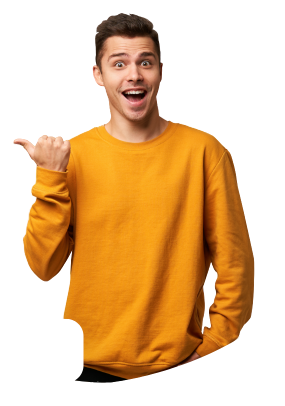
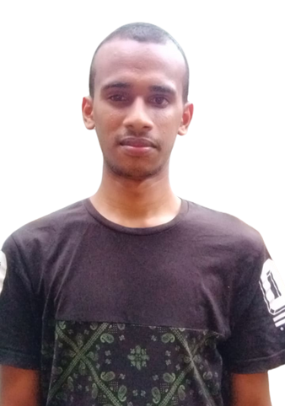
image added

diff --git a/src/components/Services/Services.jsx b/src/components/Services/Services.jsx
@@ -25,11 +25,13 @@ const Services = () => {
       <div className="awesome">
         {/* dark mode */}
         <span style={{ color: darkMode ? "white" : "" }}>My Awesome</span>
-        <span>services</span>
+        <span>Services</span>
         <spane>
-          Lorem ispum is simpley dummy text of printing of printing Lorem
-          <br />
-          ispum is simpley dummy text of printing
+        Web developer, with extensive knowledge <br />
+        And years of experience, working in web <br />
+        Technologies and Ui/Ux design, delivering <br />
+        Quality work. 
+
         </spane>
         <a href={Resume} download>
           <button className="button s-button">Download CV</button>
@@ -37,7 +39,7 @@ const Services = () => {
         <div className="blur s-blur1" style={{ background: "#ABF1FF94" }}></div>
       </div>
       {/* right */}
-      <div className="cards">
+      <div className="cards right-side">
         {/* first card */}
         <motion.div
           initial={{ left: "25rem" }}
@@ -72,7 +74,7 @@ const Services = () => {
             emoji={Humble}
             heading={"UI/UX"}
             detail={
-              "Lorem ispum dummy text are usually use in section where we need some random text"
+              "Website adaptable to all device, with Iui components and animated nteraction."
             }
             color="rgba(252, 166, 31, 0.45)"
           />

diff --git a/src/components/Experience/Experience.jsx b/src/components/Experience/Experience.jsx
@@ -9,17 +9,17 @@ const Experience = () => {
     <div className="experience" id='experience'>
       <div className="achievement">
         {/* darkMode */}
-        <div className="circle" style={{color: darkMode?'var(--orange)':''}}>8+</div>
+        <div className="circle" style={{color: darkMode?'var(--orange)':''}}>1+</div>
         <span  style={{color: darkMode?'white':''}}>years </span>
         <span>Experience</span>
       </div>
       <div className="achievement">
-        <div className="circle" style={{color: darkMode?'var(--orange)':''}}>20+</div>
+        <div className="circle" style={{color: darkMode?'var(--orange)':''}}>12+</div>
         <span  style={{color: darkMode?'white':''}}>completed </span>
         <span>Projects</span>
       </div>
       <div className="achievement">
-        <div className="circle" style={{color: darkMode?'var(--orange)':''}}>5+</div>
+        <div className="circle" style={{color: darkMode?'var(--orange)':''}}>1+</div>
         <span  style={{color: darkMode?'white':''}}>companies </span>
         <span>Work</span>
       </div>

diff --git a/src/components/Footer/Footer.jsx b/src/components/Footer/Footer.jsx
@@ -12,9 +12,9 @@ const Footer = () => {
       <div className="f-content">
         <span>pobarul.islam10@gmail.com</span>
         <div className="f-icons">
-          <Insta color="white" size={"3rem"} />
-          <Facebook color="white" size={"3rem"} />
-          <Gitub color="white" size={"3rem"} />
+        <a href="#"><Insta color="white" size={"3rem"} /></a>
+          <a href=""><Facebook color="white" size={"3rem"} /></a>
+         <a href=""> <Gitub color="white" size={"3rem"} /></a>
         </div>
       </div>
     </div>

diff --git a/src/components/Toggle/Toggle.jsx b/src/components/Toggle/Toggle.jsx
@@ -15,8 +15,7 @@ const Toggle = () => {
     <div className="toggle" onClick={handleClick}>
       <Moon />
       <Sun />
-      {/*                              toggle.css mein left ki property aik assign hy ussy delete
-                                          krna hy pehly */}
+     
       <div
         className="t-button"
         style={darkMode ? { left: "2px" } : { right: "2px" }}

diff --git a/src/components/Intro/Intro.jsx b/src/components/Intro/Intro.jsx
@@ -48,7 +48,7 @@ const Intro = () => {
       <div className="i-right">
         <img src={Vector1} alt="" />
         <img src={Vector2} alt="" />
-        <img src={boy} alt="" />
+        <img style={{width: "45%", height: "80%", margin: "2%"}} src={boy} alt="" />
         {/* animation */}
         <motion.img
           initial={{ left: "-36%" }}

diff --git a/src/App.js b/src/App.js
@@ -25,7 +25,7 @@ function App() {
       <Navbar />
       <Intro />
       <Services />
-      {/* <Experience /> */}
+      <Experience />
       <Works />
       <Skill></Skill>
       <Portfolio />

diff --git a/src/components/Services/Services.css b/src/components/Services/Services.css
@@ -40,6 +40,9 @@
 .cards {
   position: relative;
 }
+.right-side{
+  margin-left: 20%;
+}
 .cards > * {
   position: absolute;
 }
